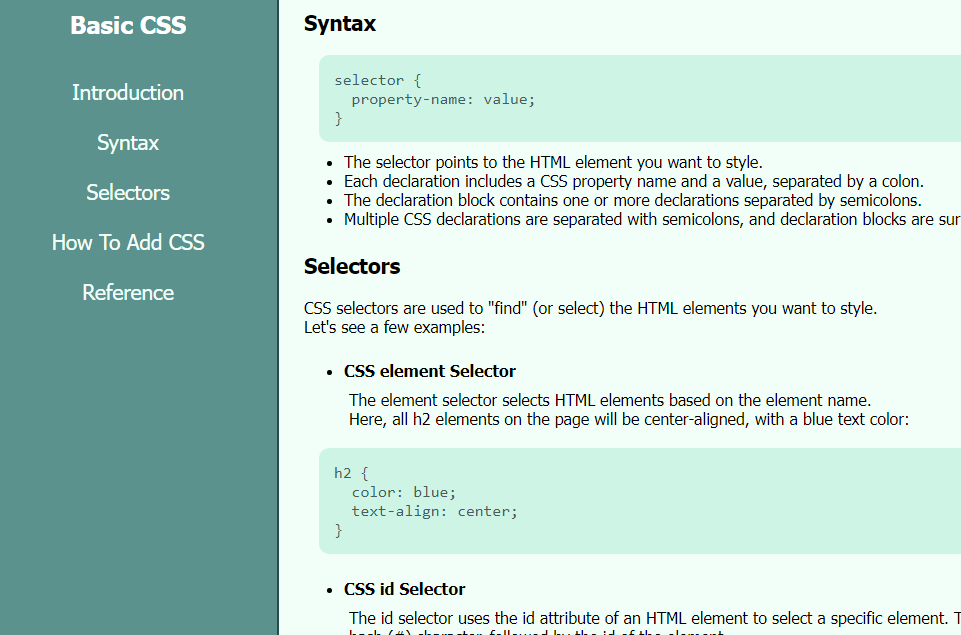
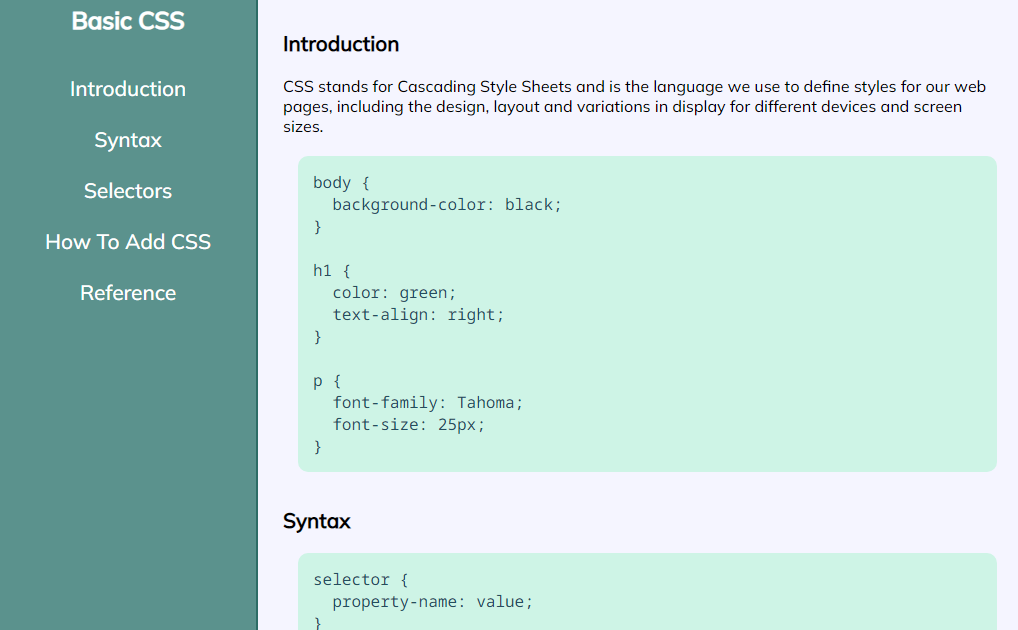
Add files via upload

diff --git a/styles.css b/styles.css
@@ -1,3 +1,20 @@
+@import url('https://fonts.googleapis.com/css2?family=Mulish:wght@500&display=swap');
+
+@import url('https://fonts.googleapis.com/css2?family=Noto+Sans+Mono&display=swap');
+
+:root {
+  --nav-bar-background: #5B928D;
+  --nav-bar-link: White;
+  --nav-bar-link-hover: #00FFE0;
+  --border: #2D6D66;
+  --main-back-ground: #F5F5FF;
+  --main-font: Black;
+  --code-back-ground: #CEF4E6;
+  --code-font: #254D5D;
+  --refernce-link: #254D5D;
+  --refernce-link-hover: Green;
+}
+
 * {
   margin: 0;
   padding: 0;
@@ -5,8 +22,8 @@
 }
 
 html, body {
-  font-family: Tahoma, sans-serif;
-  background-color: #bbbbbb;
+  font-family: 'Mulish', Tahoma, sans-serif;
+  background-color: #CCCCCC;
   font-size: 1rem;
   scroll-behavior: smooth;
 }
@@ -16,13 +33,13 @@ html, body {
   top: 0;
   left: 0;
   width: 25%;
-  height: 100%;
-  color: #ffffff;
-  background-color: #5B928D;
+  height: 100vh;
+  color: var(--nav-bar-link);
+  background-color: var(--nav-bar-background);
+  text-align: center;
   padding-top: 20px;
   padding-bottom: 15px;
-  border-right: 2px solid #2A4C49;
-  text-align: center;
+  border-right: 2px solid var(--border);
   z-index: 1;
 }
 
@@ -30,7 +47,8 @@ main {
   position: absolute;
   top: 0;
   left: 25%;
-  background-color: #F2FFF8;
+  background-color: var(--main-back-ground);
+  color: var(--main-font);
   padding: 25px 15px 60px 25px;
   min-width: 300px;
 }
@@ -44,9 +62,9 @@ section {
 
 /* This is the colored area where the code is */
 code {
-  color: #455D5D;
-  background-color: #CEF4E6;
-  font-family: monospace, sans-serif;
+  color: var(--code-font);
+  background-color: var(--code-back-ground);
+  font-family: 'Noto Sans Mono', monospace, sans-serif;
   display: block;
   white-space: pre-line;
   text-align: left;
@@ -89,24 +107,31 @@ main header {
 }
 
 .nav-link {
+  width: fit-content;
   display: block;
+  margin-left: auto;
+  margin-right: auto;
   margin-top: 25px;
   font-size: 130%;
-  color: #F2FFf8;
+  color: var(--nav-bar-link);
   text-decoration: none;
 }
 
 .nav-link:hover {
-  color: #56ECDF;
+  color: var(--nav-bar-link-hover);
+}
+
+.nav-link:active {
+  color: var(--nav-bar-link);
 }
 
 .reference-link {
-  color: #005060;
+  color: var(--refernce-link);
   text-decoration: none;
 }
 
 .reference-link:hover {
-  color: #188C81;
+  color: var(--refernce-link-hover);
 }
 
 .back-to-top {
@@ -115,9 +140,9 @@ main header {
   bottom: 30px;
   right: 10px;
   z-index: 1;
-  color: #ffffff;
-  background-color: #5B928D;
-  border-bottom: 2px solid #2A4C49;
+  color: var(--nav-bar-link);
+  background-color: var(--nav-bar-background);
+  border-bottom: 2px solid var(--border);
   padding: 10px;
   border-radius: 30%;
   font-size: 14px;
@@ -125,7 +150,11 @@ main header {
 }
 
 .back-to-top:hover {
-  color: #56ECDF;
+  color: var(--nav-bar-link-hover);
+}
+
+.back-to-top:active {
+  color: var(--nav-bar-link);
 }
 
 @media (max-width: 800px) {
@@ -155,14 +184,14 @@ main header {
     height: 205px;
     padding-top: 20px;
     padding-bottom: 15px;
-    border-bottom: 2px solid #2A4C49;
+    border-bottom: 2px solid var(--border);
     border-right: 0;
     text-align: center;
     z-index: 1;
   }
 
 nav header {
-  margin-bottom: 20px;
+  margin-bottom: 15px;
 }
 
   .nav-link {
@@ -175,7 +204,6 @@ nav header {
     position: absolute;
     top: 200px;
     left: 0;
-    background-color: #F2FFF8;
     padding: 20px 15px 60px 25px;
     min-width: 300px;
   }
